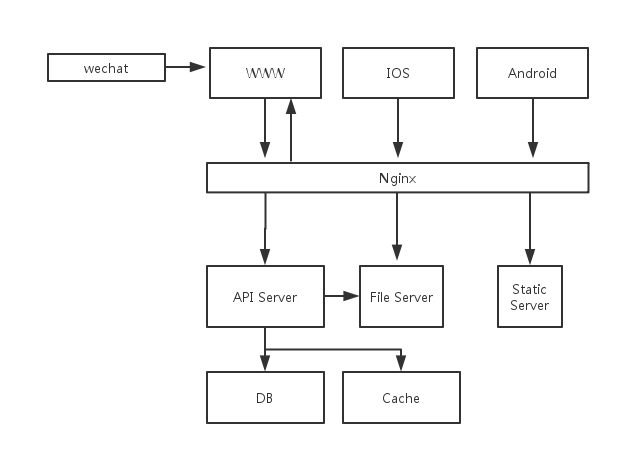
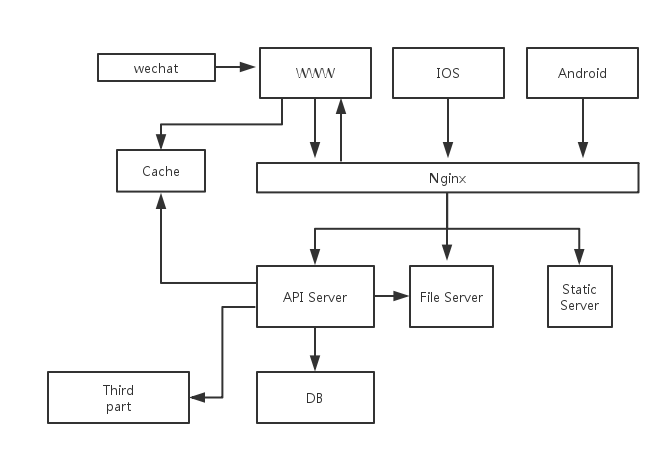
edit

diff --git a/_posts/2016-03-11-说说目前项目的架构.md b/_posts/2016-03-11-说说目前项目的架构.md
@@ -13,5 +13,32 @@ tags:
 
 ## 0x00 ##
 
+首先介绍下各个部分：  
+
+wechat 微信公众号  
+www 公司主站  
+IOS、Android 就是移动客户端    
+nginx 代理服务器  
+api server 接口服务器  
+file server 文件服务器  
+static server 静态资源服务器（js html css 之类）  
+DB 数据库（Mysql）  
+Cache 缓存服务（Memcache）
+Third part 第三方服务（签约、即时通讯、支付等等）
+
 总体可以分成 client 和 server 。
-第一层的就全部都是 client ，wechat 就是微信公众号。
+第一层的就全部都是 client
+做过公众号的人都应该知道里面其实有很多都是网页，然后还有部分和公众平台的一些数据交互。  
+所以公众号是直接访问 www，特意做了一些 wap 页面以及微信号绑定、自动登录之类的。  
+
+client 通过 http post 请求和 api server 进行数据交互，使用 json 格式。    
+这样设计的好处就是能够同时给多终端提供数据接口服务，不用给终端单独开发接口。  
+
+nginx 在系统中发挥了很大的作用，首先一个就是给各个服务做反向代理，api、www、file、static。
+还有就是配置 https 证书十分方便。
+
+cache 同时给 www 和 api 提供缓存服务，www 主要是缓存登陆用户信息，api 目前暂时好像没有用到。  
+
+为什么要用 cache 呢？  
+因为快呀，还有个最要的原因是解耦。  
+传统做法是将一些信息保存在 session 当中，如果是单容器的话肯定没有问题，那如果需要多个 tomcat 同时提供服务呢？那就涉及到登陆用户信息同步问题了，就是 session 同步，当服务器越多的时候效率越低。现在将信息保存在 cache 当中就不存在这样的问题了，不管用户从哪台服务访问都是从 cache 中取信息，就不存在同步的问题了，而且现在很多 cache 服务都能支持分布式，能够很好的水平扩展。然后服务器这边也能很好的水平扩展了。
